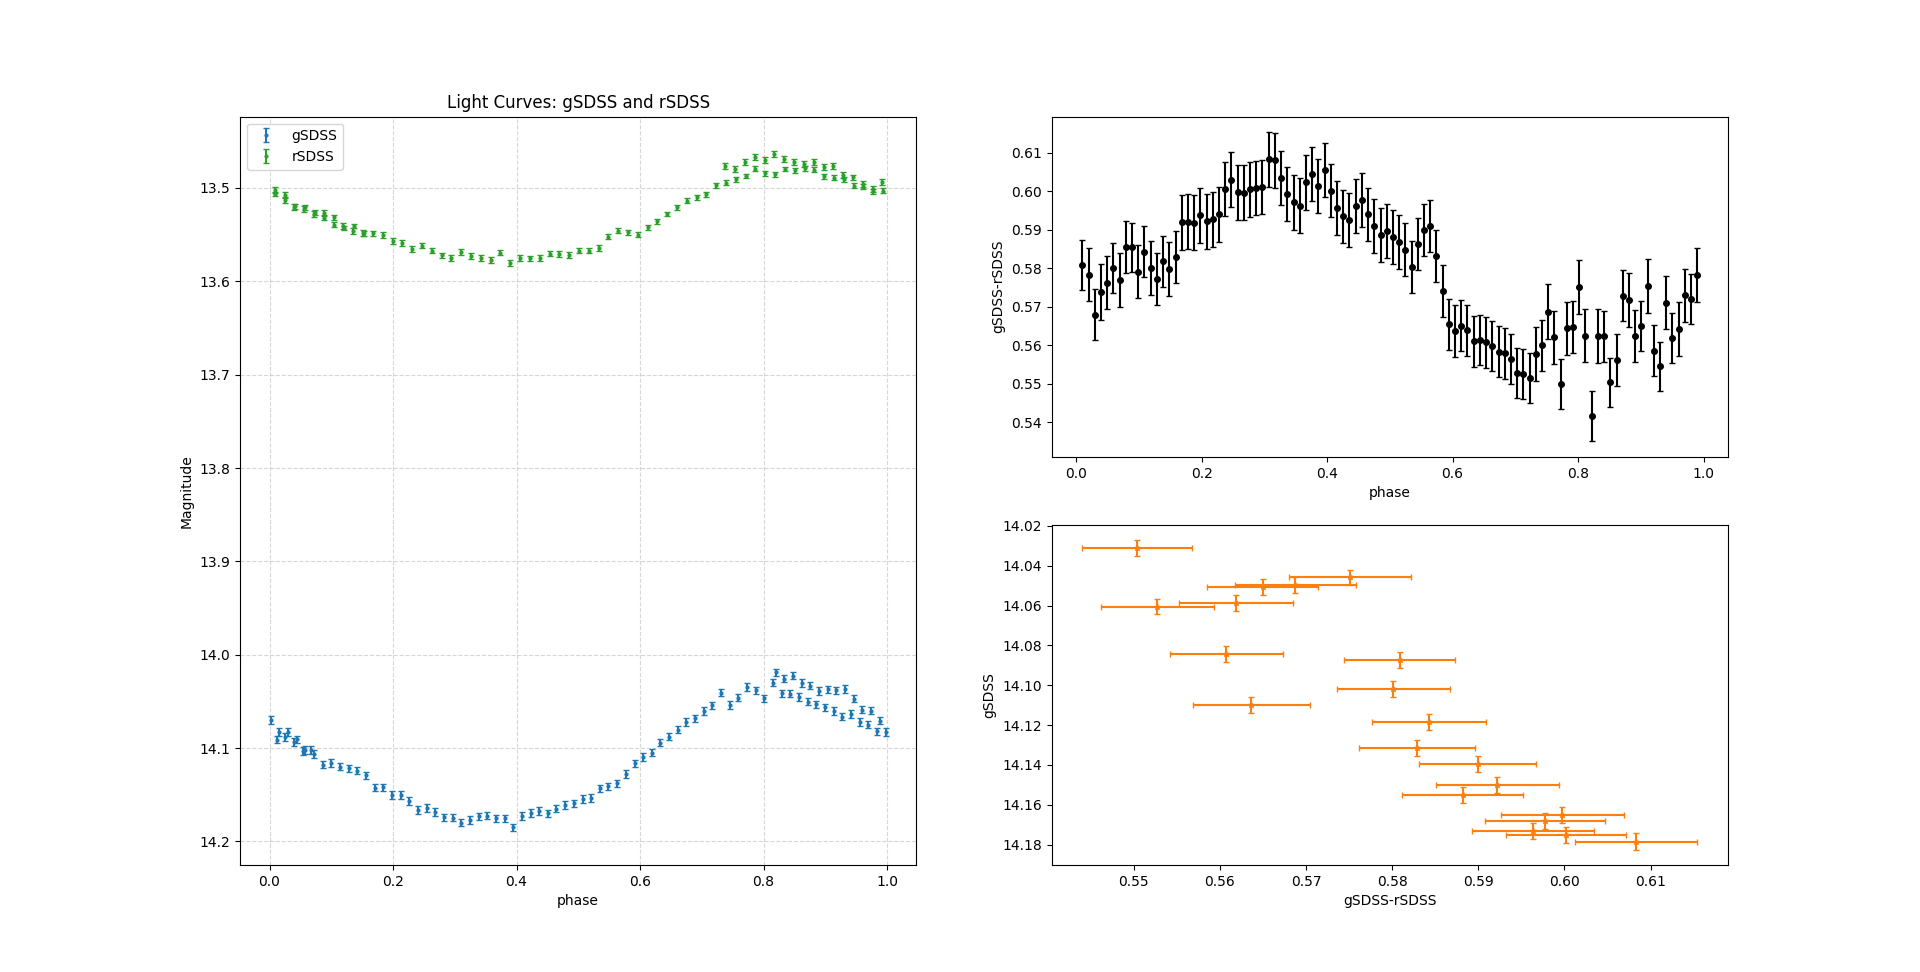
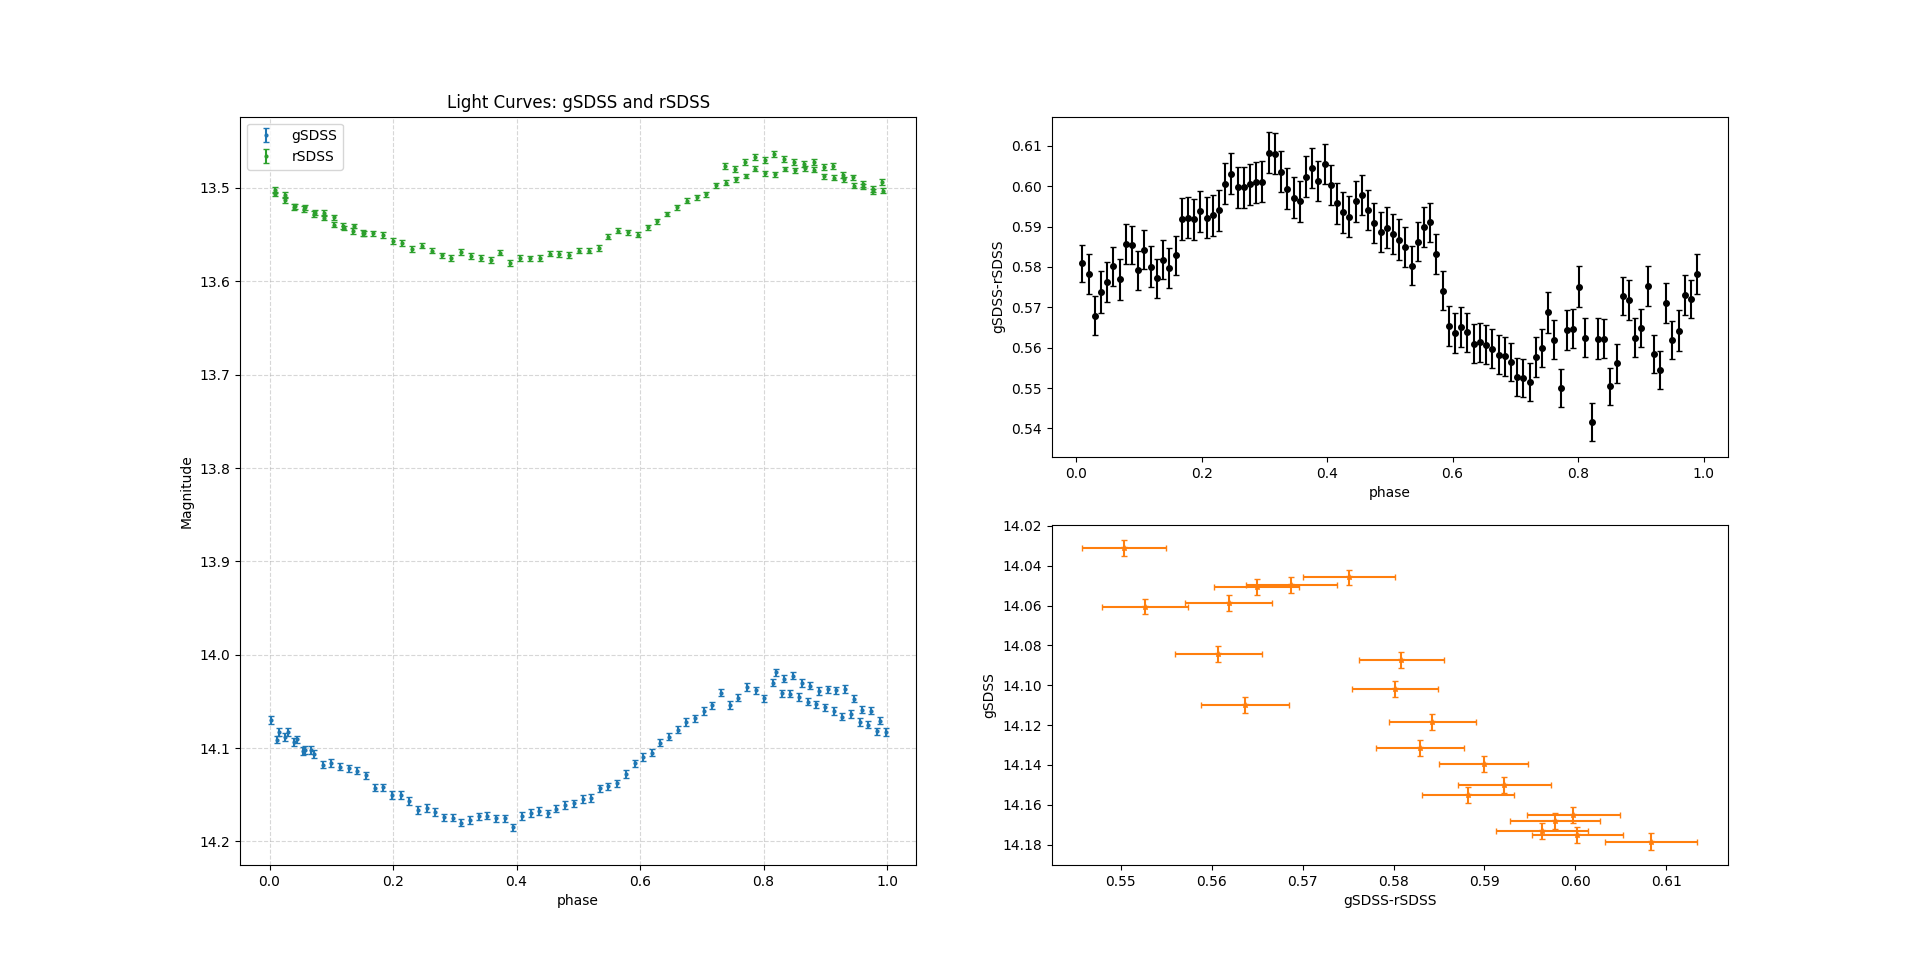
update observational_astro.md and result1.md in hw: apply the error calculation in codes.

diff --git a/docs/blog/astronomy/observational_astro.md b/docs/blog/astronomy/observational_astro.md
@@ -644,3 +644,56 @@ above we just get the flux(ADU counts), we need to get magnitude-phase next.
   $$
 
 - normalize the light curve by dividing the average/mean
+
+## practice 2
+
+### open clusters
+
+- usual reduction
+
+- using AstroImageJ:
+
+  select target stars (no comparsion stars)
+
+  get only data at a fixed time (no time domain)
+
+- the gaints saturate, the solution:
+
+  take different picture with different exposure times
+
+- the color in H-R diagram(from blue to red):
+
+  g-r, g-i, r-i
+
+- usually, we take g vs g-r, g vs g-i, r vs r-i as coordinate
+
+### error propagation
+
+- error propagation: the process to correctly calculate the error while convert counts to instrumental magnitudes.
+
+- the general formula:
+
+  for single variable,
+  $$
+  \sigma_y=\sqrt{\left(\frac{\mathrm{d}y}{\mathrm{d}x}\right)^2\sigma_x^2}
+  $$
+
+  - for the instrumental magnitude:
+
+    $$
+    m_{\text{inst}}=-2.5\log\left(\frac{C}{t_{\text{exp}}}\right)
+    $$
+    $$
+    \sigma_{m_{\text{inst}}}=\sqrt{\left(\frac{-2.5}{\ln 10}\right)^2\left(\frac{\sigma_C}{C}\right)^2}
+    $$
+
+  for multiple variables,
+  $$
+  \sigma_y=\sqrt{\sum_{i=1}^N\left(\frac{\partial y}{\partial x}\right)^2\sigma_{x_i}^2}
+  $$
+
+  - for the colour index g-r,
+    
+    $$
+    \sigma_{g\text{-}r}=\sqrt{\sigma_{gmag}^2+\sigma_{rmag}^2}
+    $$

diff --git a/docs/hw/observational_astro/result1.md b/docs/hw/observational_astro/result1.md
@@ -93,7 +93,7 @@ mag_r_fixed, err_r_fixed = interpolate_data(data_r)
 
 # calculate the difference between two filters
 dis_fixed = mag_g_fixed - mag_r_fixed
-err_dis_fixed = err_g_fixed + err_r_fixed
+err_dis_fixed = np.sqrt(err_g_fixed**2 + err_r_fixed**2)
 
 # Plot
 ## the two light curves
